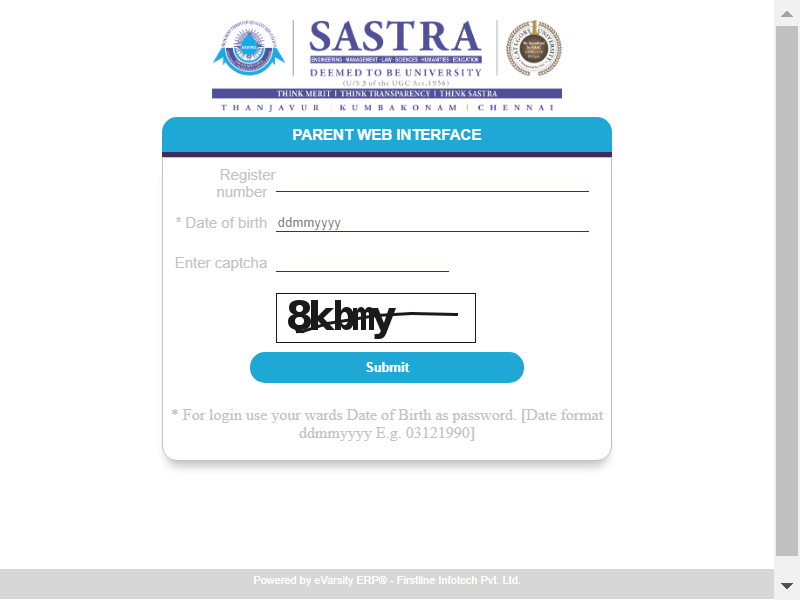
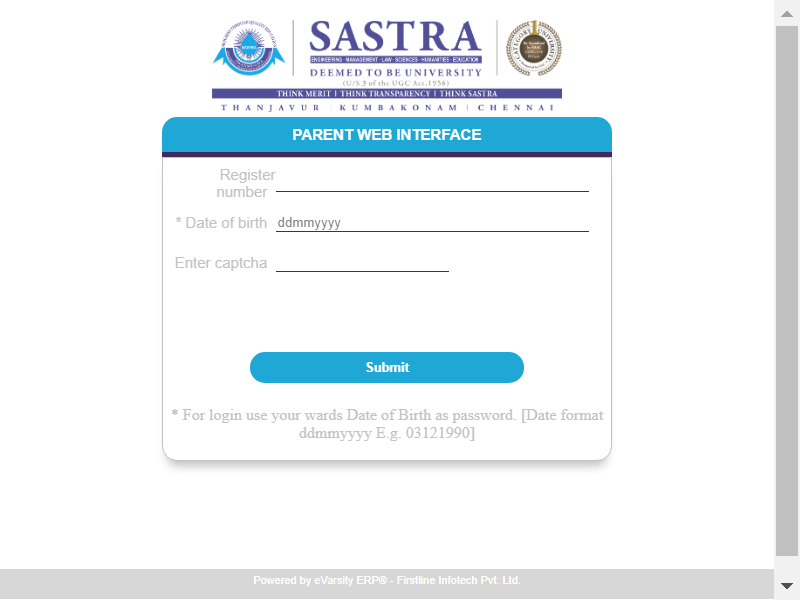
a new html page

Changed region(s): [[0.3438, 0.48, 0.5625, 0.57]]

diff --git a/templates/login.html b/templates/login.html
@@ -1,16 +1,79 @@
-{%extends 'base.html'%}
-{%block content%}
+
 <style>
   body{
-            margin: 0;
-            padding: 0;
-            box-sizing: border-box;
-            justify-content: center;
-            align-items: center;
-            height: 100vh;
-        }
+    background-color: papayawhip;
+  }
+  label{
+      margin-left:0%;
+  }
+  input{
+      margin: auto;
+      width: 80%;
+      margin-left: 10%;
+  }
+  .header{
+      text-align: center;
+      margin: auto;
+  }
+  .form{
+      background-color: grey;
+      margin: auto;
+      padding: 2rem;
+      width: 50%;
+
+  }
+
+  .image{
+      background-color: white;
+      width: 6rem;
+      height: 2.5rem;
+      margin: auto;
+      
+  }
+  button{
+    margin-left: 25%;
+  }
+
+  ul{
+      margin: 0%;
+      display: inline-block;
+      padding: 0%;
+      background-color: black;
+      width: 100%;
+      text-align: right;
+  }
+  li{
+      list-style: none;
+      display: inline-block;
+      padding:0.5rem;
+  }
+  a{
+      text-decoration: none;
+      color: rgba(0, 255, 255, 0.684);
+  }
+  a:hover,a:focus{
+      color: aqua;
+  }
+  a:visited{
+      color: aqua;
+  }
+  @media(max-width:650px){
+      .form{
+          width:70%;
+      }
+  }
+  [type=submit]{
+      background-color:rgb(117, 36, 36);
+      border-radius: 30px;
+      transition-duration: 0.5s;
+      height: 20px;
+      width: 100px;
+      margin: auto;
+  }
+  [type=submit]:hover{
+      color:white
+  }
 </style>
-   <body>
       <div class="container" style="padding: 10px;">
         {%for message in get_flashed_messages()%}
           <div class="alert alert-primary alert-dismissible fade show" role="alert">
@@ -21,42 +84,53 @@
           </div>
         {%endfor%}
       </div>
-      <section class="vh-100 gradient-custom">
-         <div class="container py-5 h-100">
-           <div class="row d-flex justify-content-center align-items-center h-100">
-             <div class="col-12 col-md-8 col-lg-6 col-xl-5">
-               <div class="card bg-dark text-white" style="height:500px;border-radius:10px ;">
+      <header class="header">
+        <ul>
+            <li> <a href="">PWI</a></li>
+            <li><a href="">SWI</a></li>
+            <li><a href="">Sastra home</a></li>
+        </ul>
+        <h1>Free period calculator</h1>
+        <p>Enter the details of student-{{number}}</p>
 
-                 <div class="card-body p-5 text-center">
-                  <h5>Free period calculator</h5>
-                    <p>Enter details of student-{{number}}</p>
-                     <p class="text-white-50 mb-5">Enter your Register number and Date of birth!</p>
-                  <div class="mb-md-5 mt-md-4 pb-5">
-                     <form method = "POST">
-                        <div class="form-group">
-                
-                          <input placeholder="Register no." type="text" class="form-control" name = "regnumber" id="exampleInputEmail1" aria-describedby="emailHelp" style="height: 30px;">
-                        </div>
-                        <div class="form-group">
-                    
-                          <input type="password" class="form-control" name = "pwd"  id="exampleInputPassword1" placeholder="ddmmyyyy" style="height: 30px;">
-                        </div>
-                        <div class="form-group">
-                  
-                          <input placeholder = "captcha" type="text" class="form-control" id = "captcha" name = "captcha" placeholder="Enter captcha" style="height: 30px;">
-                          <br>
-                          <img src="{{url_for('static',filename = 'captcha1.png')}}" alt="Nothing">
-                
-                          
-                        </div>
-                        <button type="submit" class="btn btn-outline-primary" style="height:40px;">Submit</button>
-                     </form>
-                  </div>
-               </div>
-            </div>
-         </div>
-         </div>
-         </div>
-   </section>
+    </header>
+    <main>
+
+        <div class="form">
+            <form method="post">
+                <div>
+                    <label for="Regno">Enter regno:</label>
+                    <br>
+                    <input
+                        type="text"
+                        name="Regno"
+                    >
+
+                </div>
+                <br>
+                <div>
+                  <label for="DOB">Enter DOB:</label>
+                    <br>
+                    <input
+                        type="password"
+                        name="DOB"
+                    >
+                </div>
+                <br>
+                <div>
+                    <label for="Captcha">Enter Captcha:</label>
+                    <br>
+                    <input
+                        type="text"
+                        name="Captcha"
+                    >
+                </div>
+                <br>
+                <div class="image">
+                    <img class="image" src="{{url_for('static',filename = 'captcha1.png')}}" alt="Nothing">
+              <button type="submit">Submit</button>
+                </div>
+            </form>
+        </div>
+    </main>
    </body>
-{%endblock%}

diff --git a/templates/frees.html b/templates/frees.html
@@ -74,14 +74,5 @@
             </div>
             
         </div>
-        <!-- <div class="container">
-            {%for i in Timetable%}
-                {%for j in i%}
-                    {{j}}
-                    <br>
-                {%endfor%}
-                <hr>
-            {%endfor%}
-        </div> -->
     </div>
 {%endblock%}

diff --git a/app.py b/app.py
@@ -1,12 +1,11 @@
 from flask import *
 from WebScraper import Scraper
-import time
 app = Flask(__name__)
 Details,Timetable,Name = [],[],[]
 count = 0
 signedin = False
-s = Scraper()
 countupdated = False
+s = Scraper()
 app.config["SECRET_KEY"] = "1234"
 @app.route("/",methods = ["GET","POST"])
 def home():
@@ -23,13 +22,12 @@ def getdetails(n):
         s.getcaptcha()
     except:
         pass
-    if(not countupdated):
-        if(n > count):
-            return redirect(url_for("Frees"))
+    if(n > count):
+        return redirect(url_for("Frees"))
     if(request.method == "POST"):
-        regno = request.form.get("regnumber")
-        pwd = request.form.get("pwd")
-        captcha = request.form.get("captcha")
+        regno = request.form.get("Regno")
+        pwd = request.form.get("DOB")
+        captcha = request.form.get("Captcha")
         signedin = True
         if(s.login(regno,pwd,captcha)):
             details = s.get_details()
@@ -52,8 +50,8 @@ def Frees():
     days = ["Monday","Tuesday","Wednesday","Thursday","Friday"]
     freehrs = []
     daysandhrs = []
-    for i in range(5):
-        for j in range(8):
+    for i in range(len(days)):
+        for j in range(len(timings)):
             daysandhrs.append([i,j])
     for i in range(len(daysandhrs)):
         c = 0
